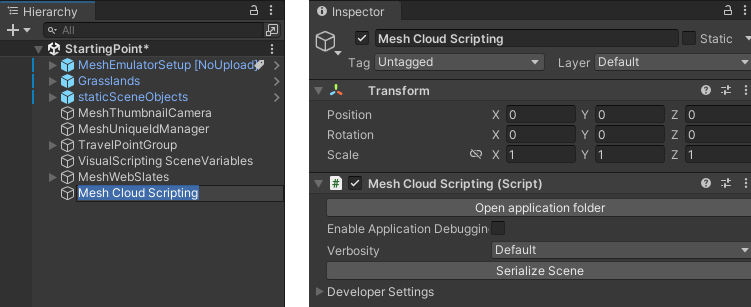
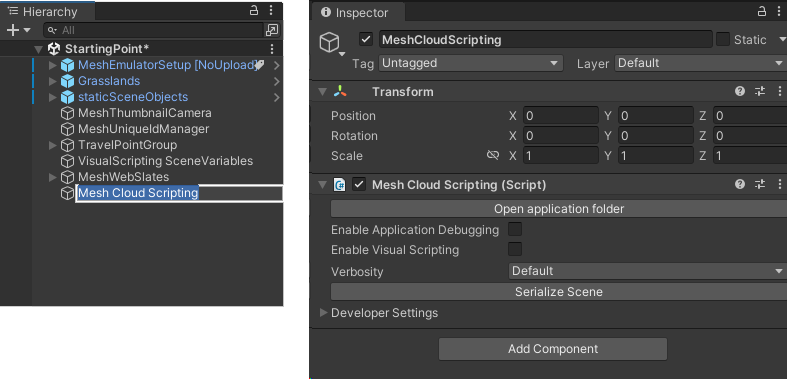
edits-082124-1320

diff --git a/mesh/develop/getting-started/mesh-201-tutorial/mesh-201-06-open-ai.md b/mesh/develop/getting-started/mesh-201-tutorial/mesh-201-06-open-ai.md
@@ -4,7 +4,7 @@ description: Learn how to set up a question and answer dialog that uses Azure Op
 ms.service: mesh
 author: vtieto
 ms.author: vinnietieto
-ms.date: 8/15/2024
+ms.date: 8/21/2024
 ms.topic: tutorial
 keywords: Microsoft Mesh, getting started, Mesh 201, tutorial, GitHub, WebSlates, web, cloud scripting, AI, Azure AI, artificial intelligence
 ---
@@ -13,7 +13,11 @@ keywords: Microsoft Mesh, getting started, Mesh 201, tutorial, GitHub, WebSlates
 
 In this chapter, we move on to the fifth and final station where you'll learn how to implement an Azure OpenAI-based virtual assistant or "chatbot". Note that you could use any AI service you want here (for example, Copilot Studio). Keeping with the theme of searching for a location for a wind farm, the AI assistant will be customized to answer wind farm-related questions.
 
-**Important**: OpenAI is only available to approved enterprise customers and partners. If you're not yet in this group, you must submit a [registration form](https://aka.ms/oai/access). [Learn more about the registration process](/legal/cognitive-services/openai/limited-access).
+**Important notes**: 
+
+- OpenAI is only available to approved enterprise customers and partners. If you're not yet in this group, you must submit a [registration form](https://aka.ms/oai/access). [Learn more about the registration process](/legal/cognitive-services/openai/limited-access).
+
+- If you run into issues with subscriptions and OpenAI, you may find an answer by posting in our [Mesh Creator Forum](https://techcommunity.microsoft.com/t5/mesh-creators/bd-p/MeshCreators).
 
 ## Setting up for this station
 

diff --git a/mesh/develop/getting-started/mesh-201-tutorial/mesh-201-01-overview-set-up-and-get-started.md b/mesh/develop/getting-started/mesh-201-tutorial/mesh-201-01-overview-set-up-and-get-started.md
@@ -107,6 +107,7 @@ To get the Mesh 201 tutorial, you must go to the [*Mesh-Toolkit-Unity* repositor
 **NOTES**:
 
 - GitHub also gives you the option to download the samples in a Zip file. We recommend that you clone the repo since it's more convenient to get future updates simply by updating the repo rather than downloading a new Zip file every time.  
+- If you previously did the [Mesh 101 tutorial](../mesh-101-tutorial/mesh-101-01-overview-and-setup.md)  and you cloned the repo at that time, you should run a *pull* operation on the repo so you have the latest changes for Mesh 201. 
 - We're not currently accepting code contributions to our samples. If you have any feedback or if you run into any issues with the samples or the Mesh toolkit, do the following: in a Unity project that has the Mesh toolkit package installed, select **Mesh Toolkit** > **Give feedback to Microsoft** and then use the feedback link in the Mesh toolkit to let us know.
 
 **Important**: If you're cloning, you should have [Git LFS installed](https://git-lfs.com/).

diff --git a/mesh/develop/getting-started/mesh-201-tutorial/mesh-201-05-live-weather-data.md b/mesh/develop/getting-started/mesh-201-tutorial/mesh-201-05-live-weather-data.md
@@ -4,7 +4,7 @@ description: Learn how to set up an interactive globe you can click to get live 
 ms.service: mesh
 author: vtieto
 ms.author: vinnietieto
-ms.date: 7/11/2024
+ms.date: 8/21/2024
 ms.topic: tutorial
 keywords: Microsoft Mesh, getting started, Mesh 201, tutorial, GitHub, WebSlates, web, cloud scripting
 ---
@@ -58,6 +58,8 @@ In order to complete this station, you'll need to insert a *key* into some code 
     ![__________________________________](../../../media/mesh-201/076-cs-component.png)
 
     Any GameObject that you intend to have under the control of cloud scripting must be added as a child to the **Mesh Cloud Scripting** GameObject.
+
+    **Note**: The **Mesh Cloud Scripting** component contains a property named **Enable Visual Scripting**. This enables Mesh cloud scripts to communicate with visual scripts. You can leave this unselected.
 
 ## Add the prefab for Station 4
 
